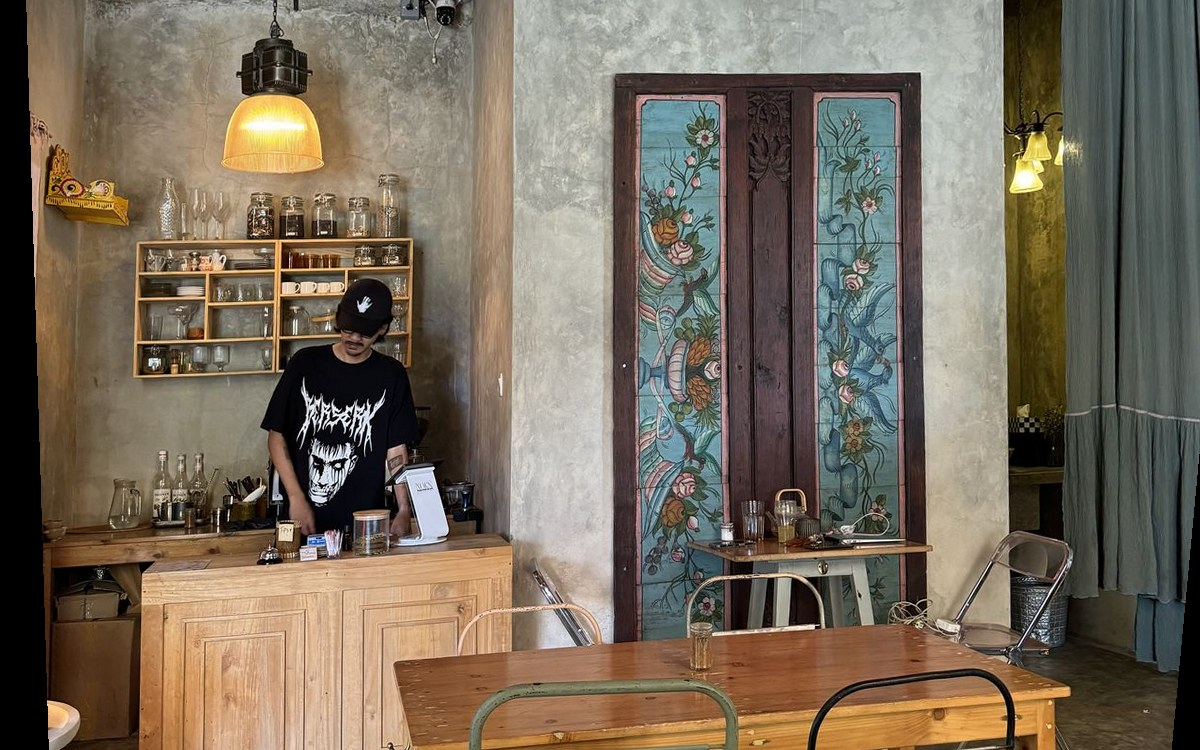
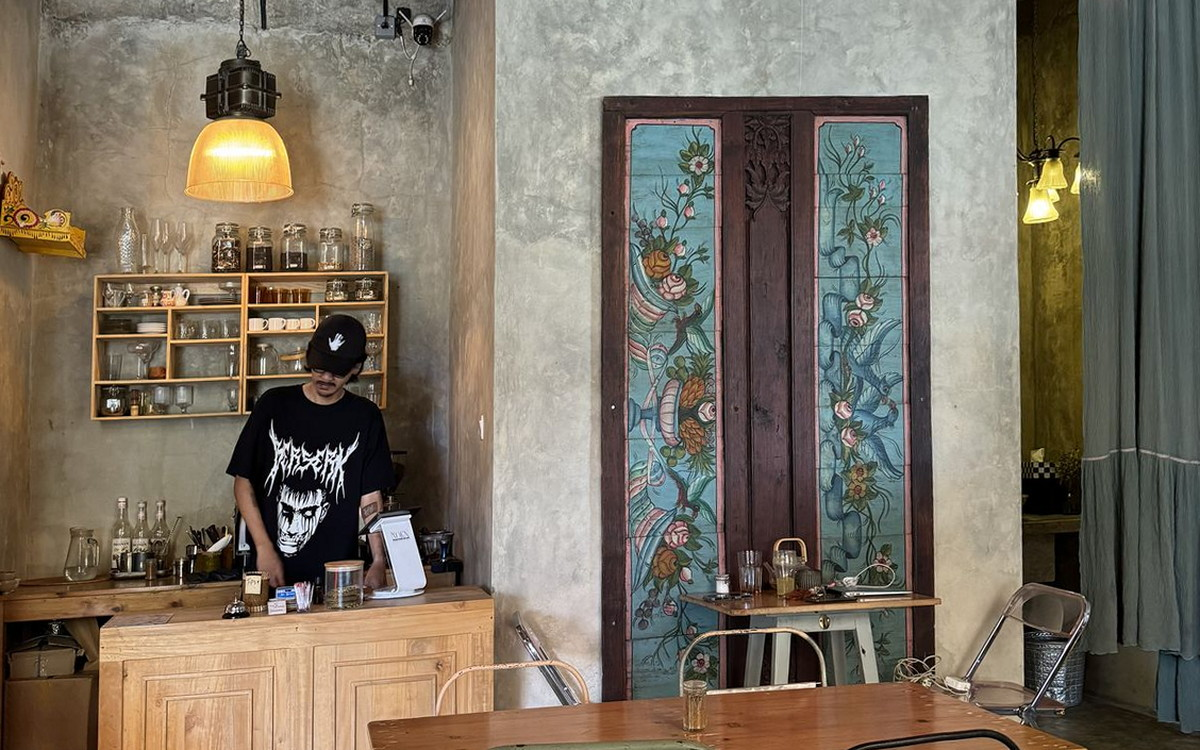
POLLEN : recadrage sans la bande noire, survol des projets renforcé
- POLLEN image 1 : la fenêtre 16:10 est prise à l'intérieur de la zone utile, la bande noire laissée par le redressement de perspective a disparu
- pages ARTISTS et BRANDS : toute la zone du projet déclenche l'assombrissement des images (brightness .9 au survol, .86 à l'appui), curseur main sur le bloc

diff --git a/404.html b/404.html
@@ -89,9 +89,10 @@
       .contact-star:focus-visible { outline: 2px solid var(--ink); outline-offset: 10px; }
       /* Titres de projet cliquables */
       /* Bloc projet entièrement cliquable */
-      .project-link { display: flex; flex-direction: column; }
+      .project-link { display: flex; flex-direction: column; cursor: pointer; }
       .project-visual { transition: filter .18s ease; }
-      .project-visual:hover { filter: brightness(.96); }
+      .project-link:hover .project-visual { filter: brightness(.9); }
+      .project-link:active .project-visual { filter: brightness(.86); }
       .project-name { transition: opacity .18s ease; }
       .project-name:hover { opacity: .5; }
       a:focus-visible, button:focus-visible, [tabindex]:focus-visible { outline: 2px solid var(--ink); outline-offset: 3px; }

diff --git a/index.html b/index.html
@@ -88,9 +88,10 @@
       .contact-star:focus-visible { outline: 2px solid var(--ink); outline-offset: 10px; }
       /* Titres de projet cliquables */
       /* Bloc projet entièrement cliquable */
-      .project-link { display: flex; flex-direction: column; }
+      .project-link { display: flex; flex-direction: column; cursor: pointer; }
       .project-visual { transition: filter .18s ease; }
-      .project-visual:hover { filter: brightness(.96); }
+      .project-link:hover .project-visual { filter: brightness(.9); }
+      .project-link:active .project-visual { filter: brightness(.86); }
       .project-name { transition: opacity .18s ease; }
       .project-name:hover { opacity: .5; }
       a:focus-visible, button:focus-visible, [tabindex]:focus-visible { outline: 2px solid var(--ink); outline-offset: 3px; }
